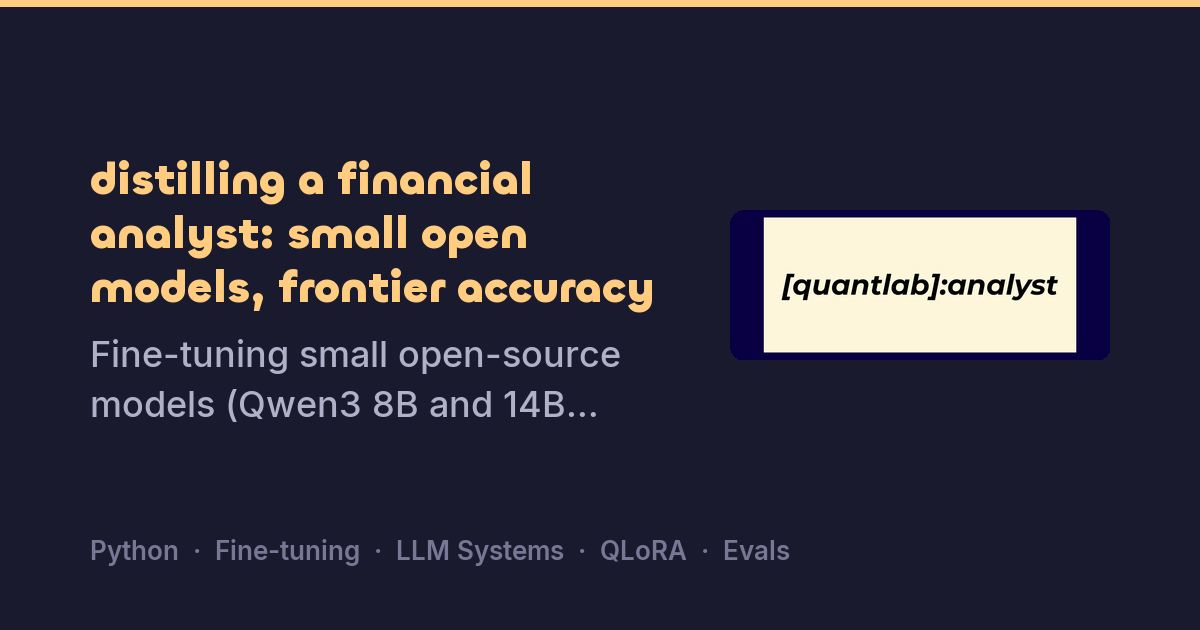
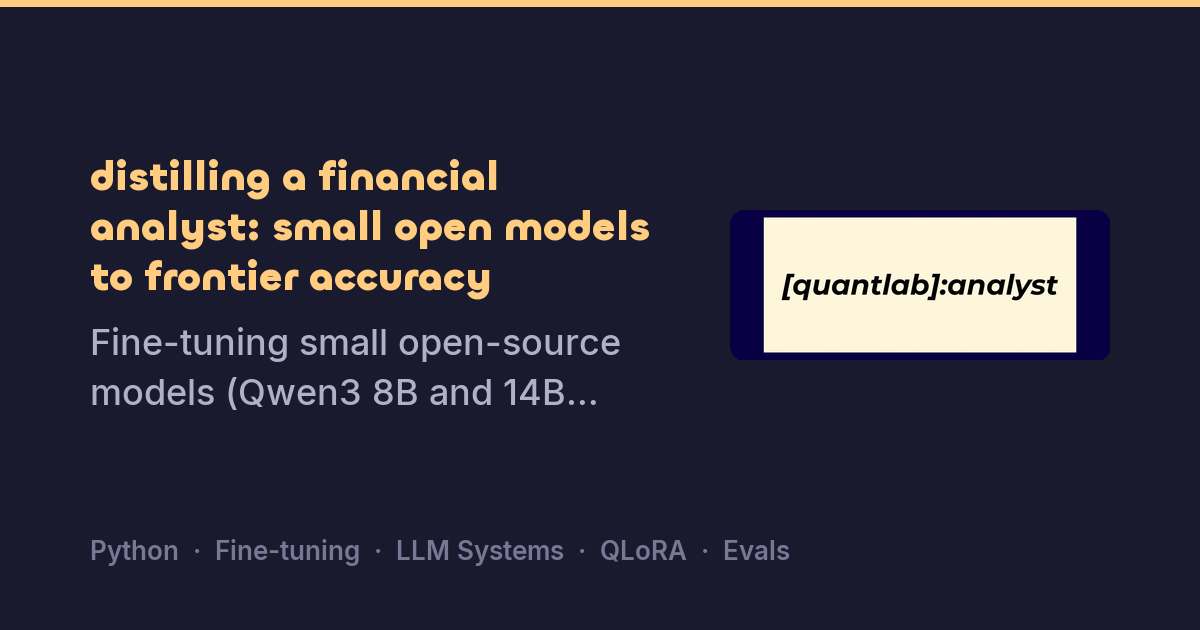
Gate visual shows its mechanism; judge round 3 keeps its verdict
The repair exhibit now displays the gate's violation report (the
exact input the fixer received) as a chip strip above the
before/after panels, so it reads input → transformation → output.
The judge game's final round no longer loses its correct/wrong
feedback: the "You went x/3" score gets its own reserved line below.
Includes Rohan's retitle ("small open models to frontier accuracy")
with regenerated share card + stub; cache busters bumped.

Claude-Session: https://claude.ai/code/session_015LG6eeqckYN7sMPV2g64Td

Changed region(s): [[0.0617, 0.2413, 0.555, 0.5127], [0.0617, 0.5127, 0.5242, 0.6635]]

diff --git a/assets/css/style.css b/assets/css/style.css
@@ -3544,6 +3544,53 @@ body.image-lightbox-open {
     font-weight: 700;
 }
 
+/* --- gate report strip: the fixer's input --- */
+.qla-gate-report-strip {
+    display: flex;
+    align-items: center;
+    flex-wrap: wrap;
+    gap: 0.45rem;
+    margin: 0.2rem 0 0.8rem;
+    padding: 0.5rem 0.7rem;
+    border: 1px dashed var(--border-subtle);
+    border-radius: 6px;
+    background: var(--bg-card);
+}
+
+.qla-gate-report-label,
+.qla-gate-report-tail {
+    color: var(--text-muted);
+    font-size: 0.72rem;
+    font-weight: 700;
+    text-transform: uppercase;
+    letter-spacing: 0.05em;
+}
+
+.qla-gate-chip {
+    font-family: 'JetBrains Mono', 'SF Mono', Menlo, monospace;
+    font-size: 0.78rem;
+    padding: 0.08em 0.45em;
+    border-radius: 4px;
+    background: rgba(224, 85, 85, 0.18);
+    color: #E05555;
+    border: 1px solid rgba(224, 85, 85, 0.4);
+}
+
+[data-theme="light"] .qla-gate-chip {
+    background: rgba(178, 59, 59, 0.12);
+    color: #B23B3B;
+    border-color: rgba(178, 59, 59, 0.35);
+}
+
+/* --- judge final-score line (separate from per-round feedback) --- */
+.qla-judge-score {
+    margin: 0.15rem 0 0;
+    min-height: 1.3em; /* reserved so the finish never reflows */
+    color: var(--text-primary);
+    font-weight: 600;
+    font-size: 0.9rem;
+}
+
 [data-theme="light"] .qla-mark-good {
     color: #2E7D32;
 }

diff --git a/assets/js/main.js b/assets/js/main.js
@@ -4620,6 +4620,16 @@ function initQlaGate(node, fixer) {
         col.appendChild(box);
         return col;
     }
+    // The mechanism, not just the outcome: show the exact input the fixer
+    // received (the gate's violation report) above the before/after panels.
+    const report = qlaEl('div', 'qla-gate-report-strip');
+    report.appendChild(qlaEl('span', 'qla-gate-report-label', "the fixer's input · the gate's report:"));
+    fixer.violations.forEach(v => {
+        report.appendChild(qlaEl('span', 'qla-gate-chip', v));
+    });
+    report.appendChild(qlaEl('span', 'qla-gate-report-tail', 'untraceable → rewrite'));
+    body.appendChild(report);
+
     const fixerGrid = qlaEl('div', 'qla-fixer-grid');
     fixerGrid.appendChild(renderExcerpt(`before: rejected by the gate, ${fixer.violations.length} untraceable numbers`, beforeTokens, badSet, 'qla-mark-bad'));
     fixerGrid.appendChild(renderExcerpt('after: one pass of the fixer', afterTokens, goodSet, 'qla-mark-good'));
@@ -4643,6 +4653,9 @@ function initQlaJudge(node, judgePairs, cleanups) {
     const feedback = qlaEl('p', 'qla-judge-feedback', '');
     feedback.setAttribute('aria-live', 'polite');
     body.appendChild(feedback);
+    const scoreLine = qlaEl('p', 'qla-judge-score', '');
+    scoreLine.setAttribute('aria-live', 'polite');
+    body.appendChild(scoreLine);
 
     const ROUNDS = 3;
     let order = [];
@@ -4751,6 +4764,7 @@ function initQlaJudge(node, judgePairs, cleanups) {
         controls.textContent = '';
         feedback.textContent = '';
         feedback.className = 'qla-judge-feedback';
+        scoreLine.textContent = '';
         const pair = trimmedPairs[order[round]];
         const teacherIsA = Math.random() < 0.5;
         status.textContent = `round ${round + 1} of ${ROUNDS} · ${pair.ticker}`;
@@ -4795,6 +4809,8 @@ function initQlaJudge(node, judgePairs, cleanups) {
     }
 
     function finish() {
+        // round 3's correct/wrong verdict stays in `feedback`;
+        // the final score gets its own line below it.
         status.textContent = 'all rounds played';
         const closings = [
             `You went 0/${ROUNDS}. The AI judge went 50/50 for Sonnet.`,
@@ -4802,8 +4818,7 @@ function initQlaJudge(node, judgePairs, cleanups) {
             `You went 2/${ROUNDS}. The AI judge went 50/50 for Sonnet.`,
             `You went 3/${ROUNDS}. You matched the judge's 50/50 for Sonnet.`
         ];
-        feedback.className = 'qla-judge-feedback';
-        feedback.textContent = closings[correct];
+        scoreLine.textContent = closings[correct];
         const again = qlaEl('button', 'qla-btn qla-btn-accent', 'play again');
         again.type = 'button';
         again.addEventListener('click', start);

diff --git a/projects/quantlab-analyst/index.html b/projects/quantlab-analyst/index.html
@@ -3,22 +3,22 @@
 <head>
     <meta charset="UTF-8">
     <meta name="viewport" content="width=device-width, initial-scale=1.0">
-    <title>distilling a financial analyst: small open models, frontier accuracy — rohan.jk</title>
+    <title>distilling a financial analyst: small open models to frontier accuracy — rohan.jk</title>
     <meta name="description" content="Fine-tuning small open-source models (Qwen3 8B and 14B, QLoRA on one RTX 4090) into a financial memo system where every number is mechanically verified: a tuned writer, a tuned repair model, and a deterministic gate that together match a frontier model on provable correctness. Every experiment pre-registered, including the failures.">
     <link rel="canonical" href="https://www.rohanjk.xyz/projects/quantlab-analyst">
 
     <meta property="og:type" content="article">
     <meta property="og:url" content="https://www.rohanjk.xyz/projects/quantlab-analyst">
-    <meta property="og:title" content="distilling a financial analyst: small open models, frontier accuracy — rohan.jk">
+    <meta property="og:title" content="distilling a financial analyst: small open models to frontier accuracy — rohan.jk">
     <meta property="og:description" content="Fine-tuning small open-source models (Qwen3 8B and 14B, QLoRA on one RTX 4090) into a financial memo system where every number is mechanically verified: a tuned writer, a tuned repair model, and a deterministic gate that together match a frontier model on provable correctness. Every experiment pre-registered, including the failures.">
     <meta property="og:site_name" content="rohan.jk">
     <meta property="og:image" content="https://www.rohanjk.xyz/assets/images/og/quantlab-analyst.png">
     <meta property="og:image:width" content="1200">
     <meta property="og:image:height" content="630">
-    <meta property="og:image:alt" content="distilling a financial analyst: small open models, frontier accuracy — rohan.jk">
+    <meta property="og:image:alt" content="distilling a financial analyst: small open models to frontier accuracy — rohan.jk">
 
     <meta name="twitter:card" content="summary_large_image">
-    <meta name="twitter:title" content="distilling a financial analyst: small open models, frontier accuracy — rohan.jk">
+    <meta name="twitter:title" content="distilling a financial analyst: small open models to frontier accuracy — rohan.jk">
     <meta name="twitter:description" content="Fine-tuning small open-source models (Qwen3 8B and 14B, QLoRA on one RTX 4090) into a financial memo system where every number is mechanically verified: a tuned writer, a tuned repair model, and a deterministic gate that together match a frontier model on provable correctness. Every experiment pre-registered, including the failures.">
     <meta name="twitter:image" content="https://www.rohanjk.xyz/assets/images/og/quantlab-analyst.png">
 

diff --git a/index.html b/index.html
@@ -54,7 +54,7 @@
     <link href="https://api.fontshare.com/v2/css?f[]=chillax@200,300,400,500,600,700&display=block" rel="stylesheet">
     <link href="https://fonts.googleapis.com/css2?family=Inter:wght@300;400;500;600;700;800;900&display=block" rel="stylesheet">
     <link rel="stylesheet" href="https://cdnjs.cloudflare.com/ajax/libs/font-awesome/6.0.0/css/all.min.css" integrity="sha384-3B6NwesSXE7YJlcLI9RpRqGf2p/EgVH8BgoKTaUrmKNDkHPStTQ3EyoYjCGXaOTS" crossorigin="anonymous" referrerpolicy="no-referrer">
-    <link rel="stylesheet" href="./assets/css/style.css?v=20260711a">
+    <link rel="stylesheet" href="./assets/css/style.css?v=20260711b">
 
     <!-- Structured Data -->
     <script type="application/ld+json">
@@ -91,7 +91,7 @@
     <script src="https://cdn.jsdelivr.net/npm/js-yaml@4.1.0/dist/js-yaml.min.js" integrity="sha384-+pxiN6T7yvpryuJmE1gM9PX7yQit15auDb+ZwwvJOd/4be2Cie5/IuVXgQb/S9du" crossorigin="anonymous" defer></script>
     <script src="https://cdn.jsdelivr.net/npm/marked@12.0.2/marked.min.js" integrity="sha384-/TQbtLCAerC3jgaim+N78RZSDYV7ryeoBCVqTuzRrFec2akfBkHS7ACQ3PQhvMVi" crossorigin="anonymous" defer></script>
     <script src="https://cdn.jsdelivr.net/npm/dompurify@3.0.6/dist/purify.min.js" integrity="sha384-cwS6YdhLI7XS60eoDiC+egV0qHp8zI+Cms46R0nbn8JrmoAzV9uFL60etMZhAnSu" crossorigin="anonymous" defer></script>
-    <script src="./assets/js/main.js?v=20260711c" defer></script>
+    <script src="./assets/js/main.js?v=20260711d" defer></script>
 </head>
 <body>
     <!-- Skip navigation -->

diff --git a/projects/quantlab-analyst.md b/projects/quantlab-analyst.md
@@ -75,7 +75,7 @@ If I couldn't teach the model to be right the first time, maybe I could teach it
 
 Repair is a smaller task than writing, so I tried it with the 8B, using 354 training examples of the form *here's a memo you wrote + here's the gate's list of untraceable numbers → here's the corrected memo*. One small fine-tune later, the fixer existed (v5 in the roster below), and the controls were clean: an untrained model, handed the exact same list of wrong numbers, fixes almost none of them (1 in 20). The trained fixer repairs about two-thirds of the failures in one round, and 19 out of 20 across two rounds, even on drafts written by *different, bigger models it never saw in training*, including the 14B writer that outsized it.
 
-That's the system's engine: **draft → gate → targeted repair → gate again**. No human in the loop, and no number unchecked. Below is one real repair from the test set.
+That's the system's engine: **draft → gate → targeted repair → gate again**. No human in the loop, and no number unchecked. Below is one real repair from the test set: the gate's report on top is the exact input the fixer received, and the two panels are the draft before and after its pass.
 
 <div id="qla-gate-visual"></div>
 
@@ -124,9 +124,9 @@ The final production pair is v6 (writes) and v5 (repairs), with the gate between
 ## learnings: frustrating but necessary
 
 1. **Verification beats imitation for reliability.** Four attempts to train correctness *in* failed (more training, stricter prompts, and two flavours of preference training). The one fine-tune that paid for itself was trained on the verifier's own feedback, and it works as a loop.
-2. **Error-correction is a small, learnable, transferable skill.** 354 examples taught an 8B to out-repair models twice its size, across model families.
-3. **Precision needed scale × data.** Size alone helped modestly. Size plus a doubled corpus converted a 95% writer into a 99.1% writer. The failed experiments are what make that conclusion trustworthy.
-4. **Controls and pre-registration did real work.** Every system number has a matching control; my pre-registered predictions were wrong in both directions several times, and the research log says so each time.
+2. **Error correction is a small, learnable, transferable skill.** 354 examples taught an 8B to out-repair models twice its size, across model families.
+3. **Precision needed scale × data.** Size alone helped a little. Size plus a doubled corpus converted a 95% writer into a 99.1% writer. The failed experiments are what make that conclusion trustworthy.
+4. **Controls and pre-registration are necessary.** Every system number has a matching control; my pre-registered predictions were wrong in both directions several times, and the research log says so each time.
 5. **Fine-tuning tunes what you aim it at, and nothing else.** The gate metrics I optimised reached frontier level; the prose quality I never targeted didn't move, even when I finally targeted it directly. Verifiability and quality are different axes, and this system honestly claims only one.
 
 Under the hood this project exercised most of the modern fine-tuning toolkit end to end, on consumer hardware: QLoRA SFT and its scaling behaviour, three DPO designs (two instructive failures, one negative with a twist), <span class="gloss-term" data-gloss="When a model optimises a loophole in the metric instead of the goal, like citing fewer numbers so fewer can be wrong.">reward-hacking</span> diagnosis, <span class="gloss-term" data-gloss="Building training data from the model's own outputs, so the examples match what it actually writes rather than an idealised style.">on-policy data generation</span>, <span class="gloss-term" data-gloss="Using a third model to blind-compare outputs. Judges prefer whichever answer they read first, so every comparison is run twice with positions swapped.">LLM-as-judge</span> evaluation with position-debiasing, quantization-aware measurement, and importance-matrix compression. Each choice is documented with the evidence that forced it.